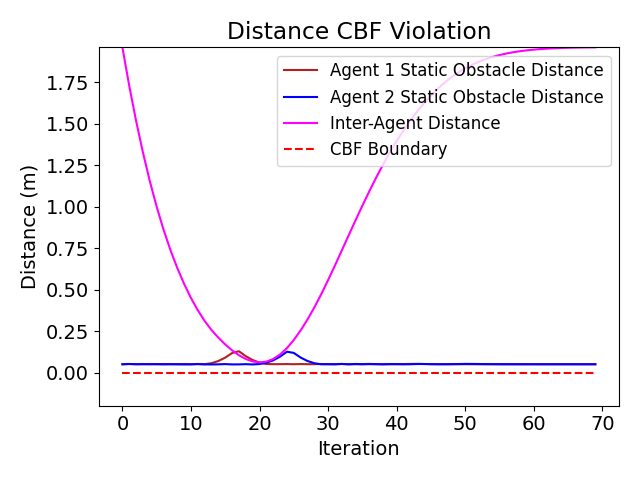
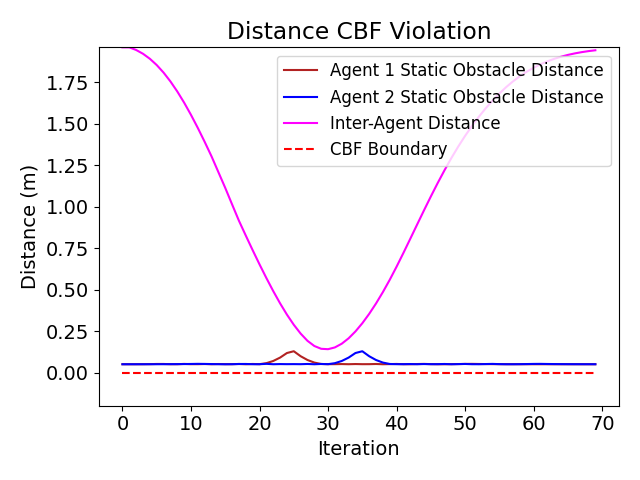
Temp fix for intersection

diff --git a/main.py b/main.py
@@ -19,16 +19,16 @@ from metrics import gather_all_metric_data
 
 # config.liveliness_gamma = 0.1
 # config.runtime = 15.0
-# scenario_params = (1.0, 1.0)
-# scenario = IntersectionScenario(start=scenario_params[0], goal=scenario_params[1], start_vel=0.3)
+scenario_params = (1.0, 1.0)
+scenario = IntersectionScenario(start=scenario_params[0], goal=scenario_params[1], start_vel=0.0)
 
 # scenario_params = (-1.0, 0.5, 2.0, 0.15)
 # scenario = DoorwayScenario(initial_x=scenario_params[0], initial_y=scenario_params[1], goal_x=scenario_params[2], goal_y=scenario_params[3], start_facing_goal=True, initial_vel=0.3)
 
 # scenario_params = (-1.0, 0.5, 2.0, 0.15, 0.0, True)
 # scenario_params = (-1.0, 0.4, 2.0, 0.35, 0.0, True)
-scenario_params = (-0.5, 0.5, 2.0, 0.15, 0.0, False)
-scenario = DoorwayScenario(initial_x=scenario_params[0], initial_y=scenario_params[1], goal_x=scenario_params[2], goal_y=scenario_params[3], initial_vel=scenario_params[4], start_facing_goal=scenario_params[5])
+# scenario_params = (-0.5, 0.5, 2.0, 0.15, 0.0, False)
+# scenario = DoorwayScenario(initial_x=scenario_params[0], initial_y=scenario_params[1], goal_x=scenario_params[2], goal_y=scenario_params[3], initial_vel=scenario_params[4], start_facing_goal=scenario_params[5])
 
 config.opp_gamma, config.obs_gamma, config.liveliness_gamma = (0.9, 0.2, 0.2)
 config.mpc_p0_faster = False
@@ -49,11 +49,11 @@ controllers = []
 
 # WORKING
 # controllers.append(ModelController("weights/model_30_norm_doorsuite2_lfnew_0_1_bn_definition.json", goals[0], static_obs=scenario.obstacles.copy())) # Doorway livenet
-# controllers.append(ModelController("weights/model_30_norm_intersuite2_lfnew_so_ego_0_1_bn_definition.json", goals[0], static_obs=scenario.obstacles.copy())) # Intersection livenet
+controllers.append(ModelController("weights/model_30_norm_intersuite2_lfnew_so_ego_0_1_bn_definition.json", goals[0], static_obs=scenario.obstacles.copy())) # Intersection livenet
 
 # controllers.append(ModelController("weights/srikar_iter_5_3opp_od_0_1_bn_definition.json", goals[0], static_obs=scenario.obstacles.copy())) # Intersection livenet
 
-controllers.append(ModelController("weights/srikar_iter_6_3opp_od_seploop_suite5_0_1_bn_definition.json", goals[0], static_obs=scenario.obstacles.copy())) # Intersection livenet
+# controllers.append(ModelController("weights/srikar_iter_6_3opp_od_seploop_suite5_0_1_bn_definition.json", goals[0], static_obs=scenario.obstacles.copy())) # Doorway livenet
 
 
 # Setup agent 1
@@ -62,11 +62,11 @@ controllers.append(ModelController("weights/srikar_iter_6_3opp_od_seploop_suite5
 
 # WORKING
 # controllers.append(ModelController("weights/model_30_norm_doorsuite2_lfnew_0_1_bn_definition.json", goals[1], static_obs=scenario.obstacles.copy())) # Doorway livenet
-# controllers.append(ModelController("weights/model_30_norm_intersuite2_lfnew_so_ego_0_1_bn_definition.json", goals[1], static_obs=scenario.obstacles.copy())) # Intersection livenet
+controllers.append(ModelController("weights/model_30_norm_intersuite2_lfnew_so_ego_0_1_bn_definition.json", goals[1], static_obs=scenario.obstacles.copy())) # Intersection livenet
 
 # controllers.append(ModelController("weights/srikar_iter_5_3opp_od_0_1_bn_definition.json", goals[1], static_obs=scenario.obstacles.copy())) # Intersection livenet
 
-controllers.append(ModelController("weights/srikar_iter_6_3opp_od_seploop_suite5_0_1_bn_definition.json", goals[1], static_obs=scenario.obstacles.copy())) # Intersection livenet
+# controllers.append(ModelController("weights/srikar_iter_6_3opp_od_seploop_suite5_0_1_bn_definition.json", goals[1], static_obs=scenario.obstacles.copy())) # Doorway livenet
 
 x_cum, u_cum = run_simulation(scenario, env, controllers, logger, plotter)
 

diff --git a/models.py b/models.py
@@ -51,14 +51,17 @@ class BarrierNet(nn.Module):
         if self.model_definition.sep_pen_for_each_obs:
             self.num_obs_hiddens = self.model_definition.n_opponents
         
-        self.fc_obs_1 = []
-        self.fc_obs_2 = []
-        for _ in range(self.num_obs_hiddens):
-            self.fc_obs_1.append(nn.Linear(model_definition.nHidden1, model_definition.nHidden22).double())
-            self.fc_obs_2.append(nn.Linear(model_definition.nHidden22, N_CL).double())
+        self.fc22 = nn.Linear(model_definition.nHidden1, model_definition.nHidden22).double()
+        self.fc32 = nn.Linear(model_definition.nHidden22, N_CL).double()
 
-        self.fc_obs_1_list = nn.ModuleList(self.fc_obs_1)
-        self.fc_obs_2_list = nn.ModuleList(self.fc_obs_2)
+        # self.fc_obs_1 = []
+        # self.fc_obs_2 = []
+        # for _ in range(self.num_obs_hiddens):
+        #     self.fc_obs_1.append(nn.Linear(model_definition.nHidden1, model_definition.nHidden22).double())
+        #     self.fc_obs_2.append(nn.Linear(model_definition.nHidden22, N_CL).double())
+
+        # self.fc_obs_1_list = nn.ModuleList(self.fc_obs_1)
+        # self.fc_obs_2_list = nn.ModuleList(self.fc_obs_2)
 
         if self.model_definition.add_liveness_filter:
             self.fc24 = nn.Linear(model_definition.nHidden1, model_definition.nHidden24).double()
@@ -84,7 +87,8 @@ class BarrierNet(nn.Module):
         x31 = self.fc31(x21)
 
         x3obs = []
-        for fc22, fc32 in zip(self.fc_obs_1_list, self.fc_obs_2_list):
+        # for fc22, fc32 in zip(self.fc_obs_1_list, self.fc_obs_2_list):
+        for fc22, fc32 in [(self.fc22, self.fc32)]:
             x22 = F.relu(fc22(x))
             x32 = fc32(x22)
             x32 = 4*nn.Sigmoid()(x32)  # ensure CBF parameters are positive

diff --git a/run_experiments.py b/run_experiments.py
@@ -20,10 +20,10 @@ from plotter import Plotter
 # SCENARIO = 'Doorway'
 SCENARIO = 'Intersection'
 
-# RUN_AGENT = 'MPC'
+RUN_AGENT = 'MPC'
 # RUN_AGENT = 'MPC_UNLIVE'
 # RUN_AGENT = 'BarrierNet'
-RUN_AGENT = 'LiveNet'
+# RUN_AGENT = 'LiveNet'
 
 SIM_RESULTS_MODE = False
 
@@ -104,7 +104,7 @@ def get_scenario(scenario_type):
         # return DoorwayScenario(initial_x=scenario_params[0], initial_y=scenario_params[1], goal_x=scenario_params[2], goal_y=scenario_params[3])
         return DoorwayScenario(initial_x=scenario_params[0], initial_y=scenario_params[1], goal_x=scenario_params[2], goal_y=scenario_params[3], start_facing_goal=True, initial_vel=0.3)
     elif scenario_type == 'Intersection':
-        return IntersectionScenario(start_vel=0.3)
+        return IntersectionScenario(start_vel=0.0)
 
 
 if __name__ == '__main__':
